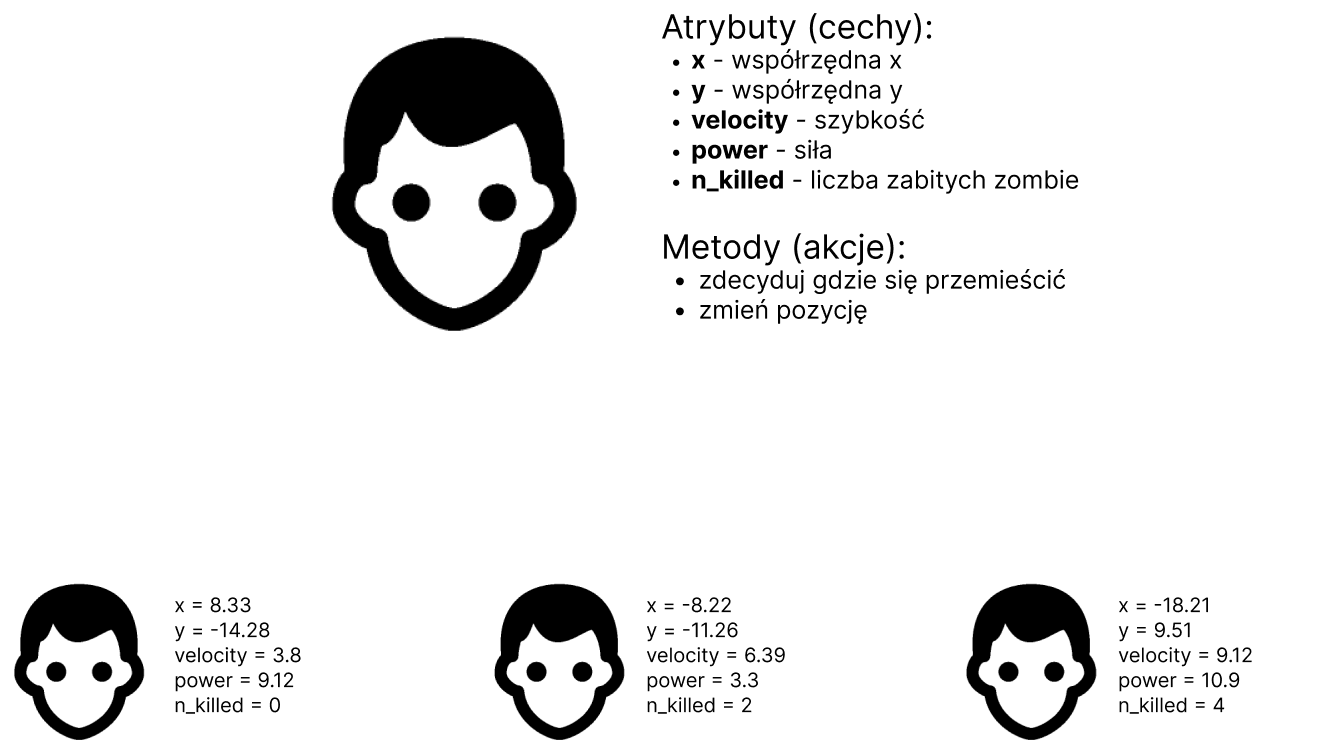
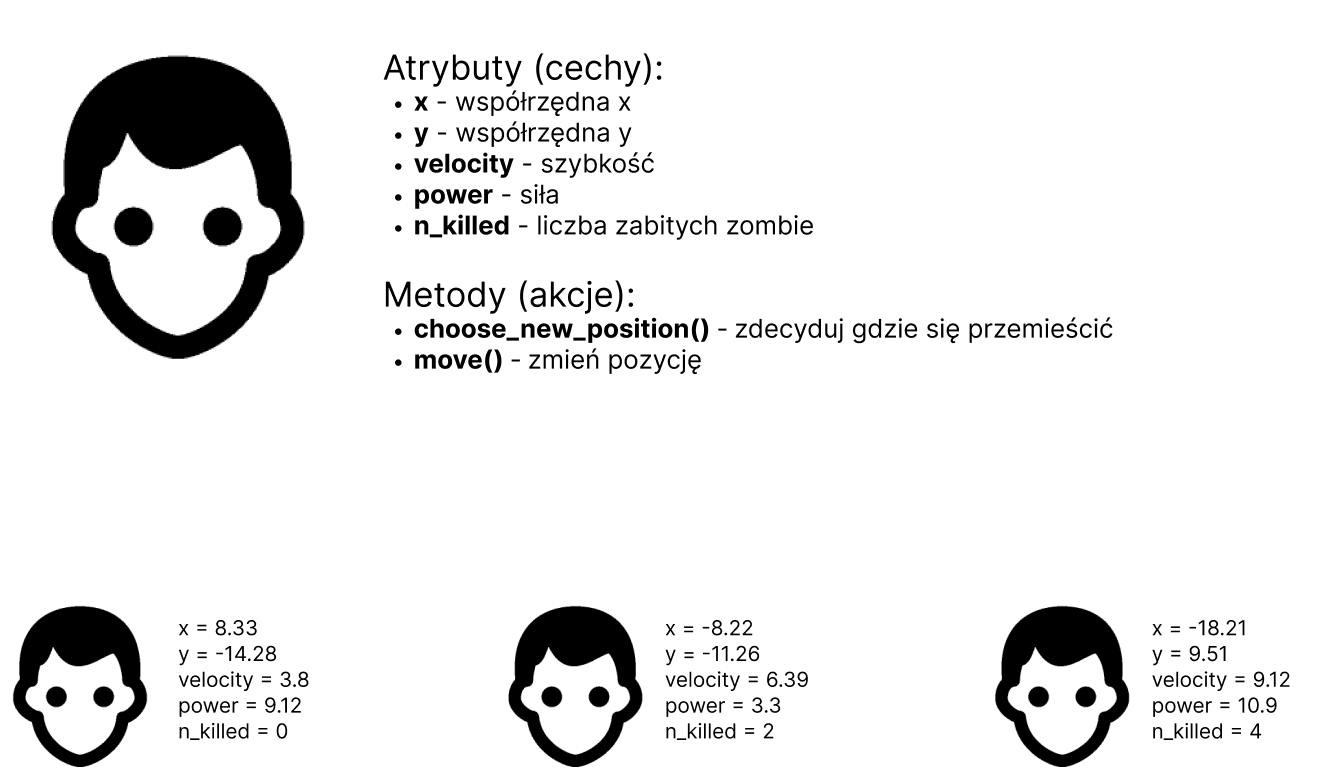
Just another update

diff --git a/Python podstawowy/9. Programowanie obiektowe.md b/Python podstawowy/9. Programowanie obiektowe.md
@@ -40,7 +40,94 @@ Tak wyglądać może schemat klasy `Human`. Wymienione są jej atrybuty (czyli c
 ![[klasahuman.png]]
 
 
+Analogiczny przykład dla klasy `Zombie` może wyglądać następująco:
 
+![[klasazombie.png]]
+
+Takie podejście pozwala na zamodelowanie każdej postaci przez jeden obiekt zamiast używania *n* zmiennych czy słownika + zestawu niezależnych funkcji. Skutkuje to większą przejrzystością i porządkiem w projekcie. Do każdego atrybutu czy metody obiektu możemy dostać się z poziomu tego obiektu, podobnie jak dostajemy się do metody `append()` z poziomu listy, którą chcemy zmodyfikować:
+```python
+my_list = [1, 2, 3]
+my_list.append()
+```
+
+---
+Implementacja powyższych klas w Pythonie została opisana poniżej. Na razie ograniczymy się wyłącznie do atrybutów, które definiujemy w specjalnej metodzie inicjalizacyjnej. Metody **choose_new_position( )** oraz **move( )** zostały na razie pominięte.
+
+```python
+class Human:
+    def __init__(self, x, y, velo, power, n_killed=0):
+        self.x = x
+        self.y = y
+        self.velocity = velo  # nazwy parametru i atrybutu mogą się różnić
+        self.power = power
+        self.n_killed = n_killed
+```
+
+Zaczynamy od słowa kluczowego `class` po którym następuje nazwa klasy. Powinna ona być napisana z wielkiej litery - po tym poznajemy, że coś jest klasą. Następnie wcięty blok kodu zaczynamy od metody \_\_init__(), która będzie wykonana po utworzeniu obiektu. Jej lista parametrów zaczyna się od *self*, czyli odniesienia do obiektu tej klasy. Co ważne, nie jest to żaden konkretny obiekt. *self* odnosi się zawsze do tego obiektu, który aktualnie jest tworzony w \_\_init__(). Pozostałe parametry działają jak w każdej innej funkcji.
+
+Wewnątrz metody \_\_init__() przypisujemy do poszczególnych atrybutów klasy `Human` wartości pochodzące z przekazanych argumentów. W podobny sposób utworzymy klasę `Zombie`:
+
+```python
+class Zombie:
+    def __init__(self, x, y, velo, power, n_inf=0):
+        self.x = x  
+        self.y = y
+        self.velocity = velo
+        self.power = power
+        self.n_infected = n_inf
+```
+
+W dalszej kolejności utworzymy instancje tych klas poprzez odwołanie się do nazwy klasy jak do funkcji i przekazanie jej jako argumentów tych wartości, które oczekuje \_\_init__() (nie wliczając *self*). 
+
+```python
+initial_x = 8.53
+initial_y = -3.23
+velocity = 4
+power = 8
+
+human = Human(initial_x, initial_y, velocity, power)
+```
+
+Teraz po odwołaniu się do poszczególnych atrybutów zobaczymy te wartości, które zostały przekazane w trakcie tworzenia obiektu:
+
+```python
+print(human.x)
+print(human.y)
+print(human.velocity)
+print(human.power)
+print(human.n_killed)
+
+# 8.53
+# -3.23
+# 4
+# 8
+# 0
+```
+
+To samo robimy dla `Zombie`. Tym razem, dla urozmaicenia,  przekazujemy wartości wprost, bez tworzenia wcześniej zmiennych:
+
+```python
+zombie = Zombie(1, 2, 3, 4)
+
+print(zombie.x)
+print(zombie.y)
+print(zombie.velocity)
+print(zombie.power)
+print(zombie.n_infected)
+
+# 1
+# 2
+# 3
+# 4
+# 0
+```
+
+
+**Definicja klasy, konstruktor, atrybuty - podsumowanie:**
+- Klasa to abstrakcyjny opis zawierający zbiór atrybutów (własności) oraz metod (funkcji) używanych do modelowania obiektów tej klasy
+- W Pythonie istnieją klasy wbudowane (np. *str*, *int*, *float*, ...) ale możemy tworzyć również własne. Wówczas ich nazwa powinna zaczynać się od wielkiej litery
+- Klasy prawie zawsze posiadają metodę inicjalizacyjną, która zawiera zestaw instrukcji jakie zostają wykonane po utworzeniu obiektu. Przede wszystkim są tam przypisywane wartości do atrybutów
+- Aby odwołać się do atrybutu obiektu należy użyć zapisu `<object_name>.<attribute_name>`
 ---
 ---
 ---
